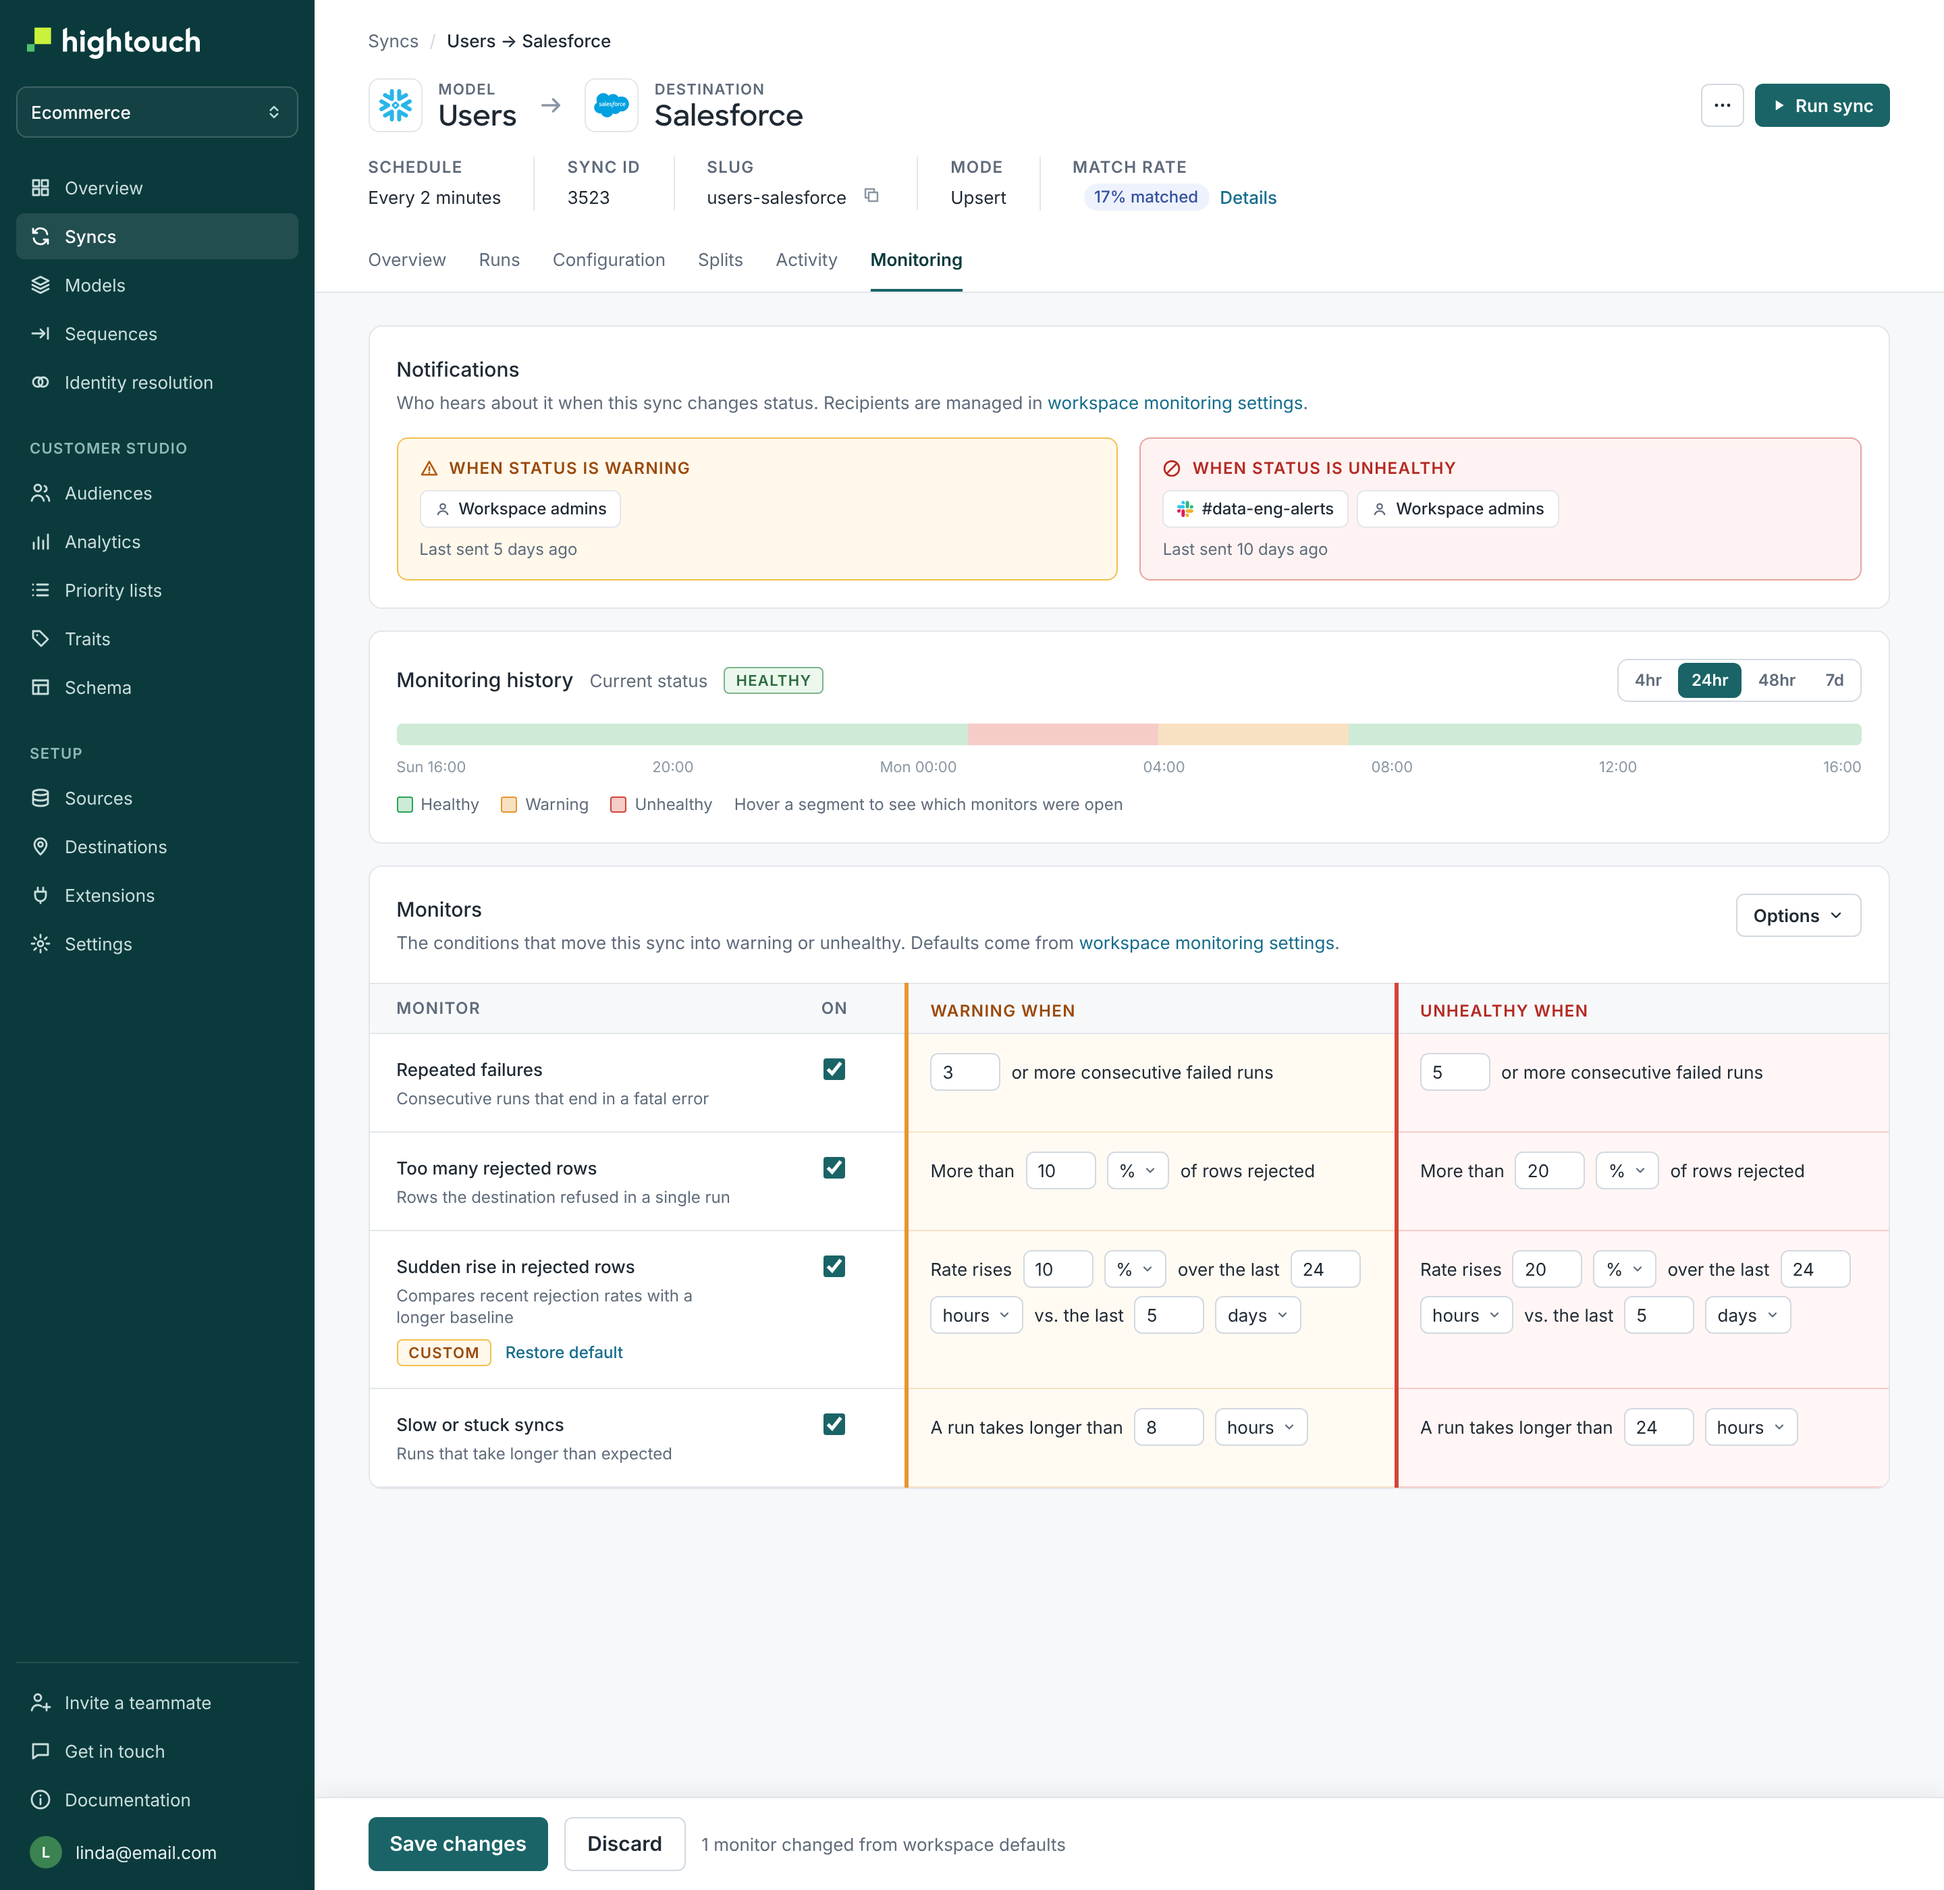
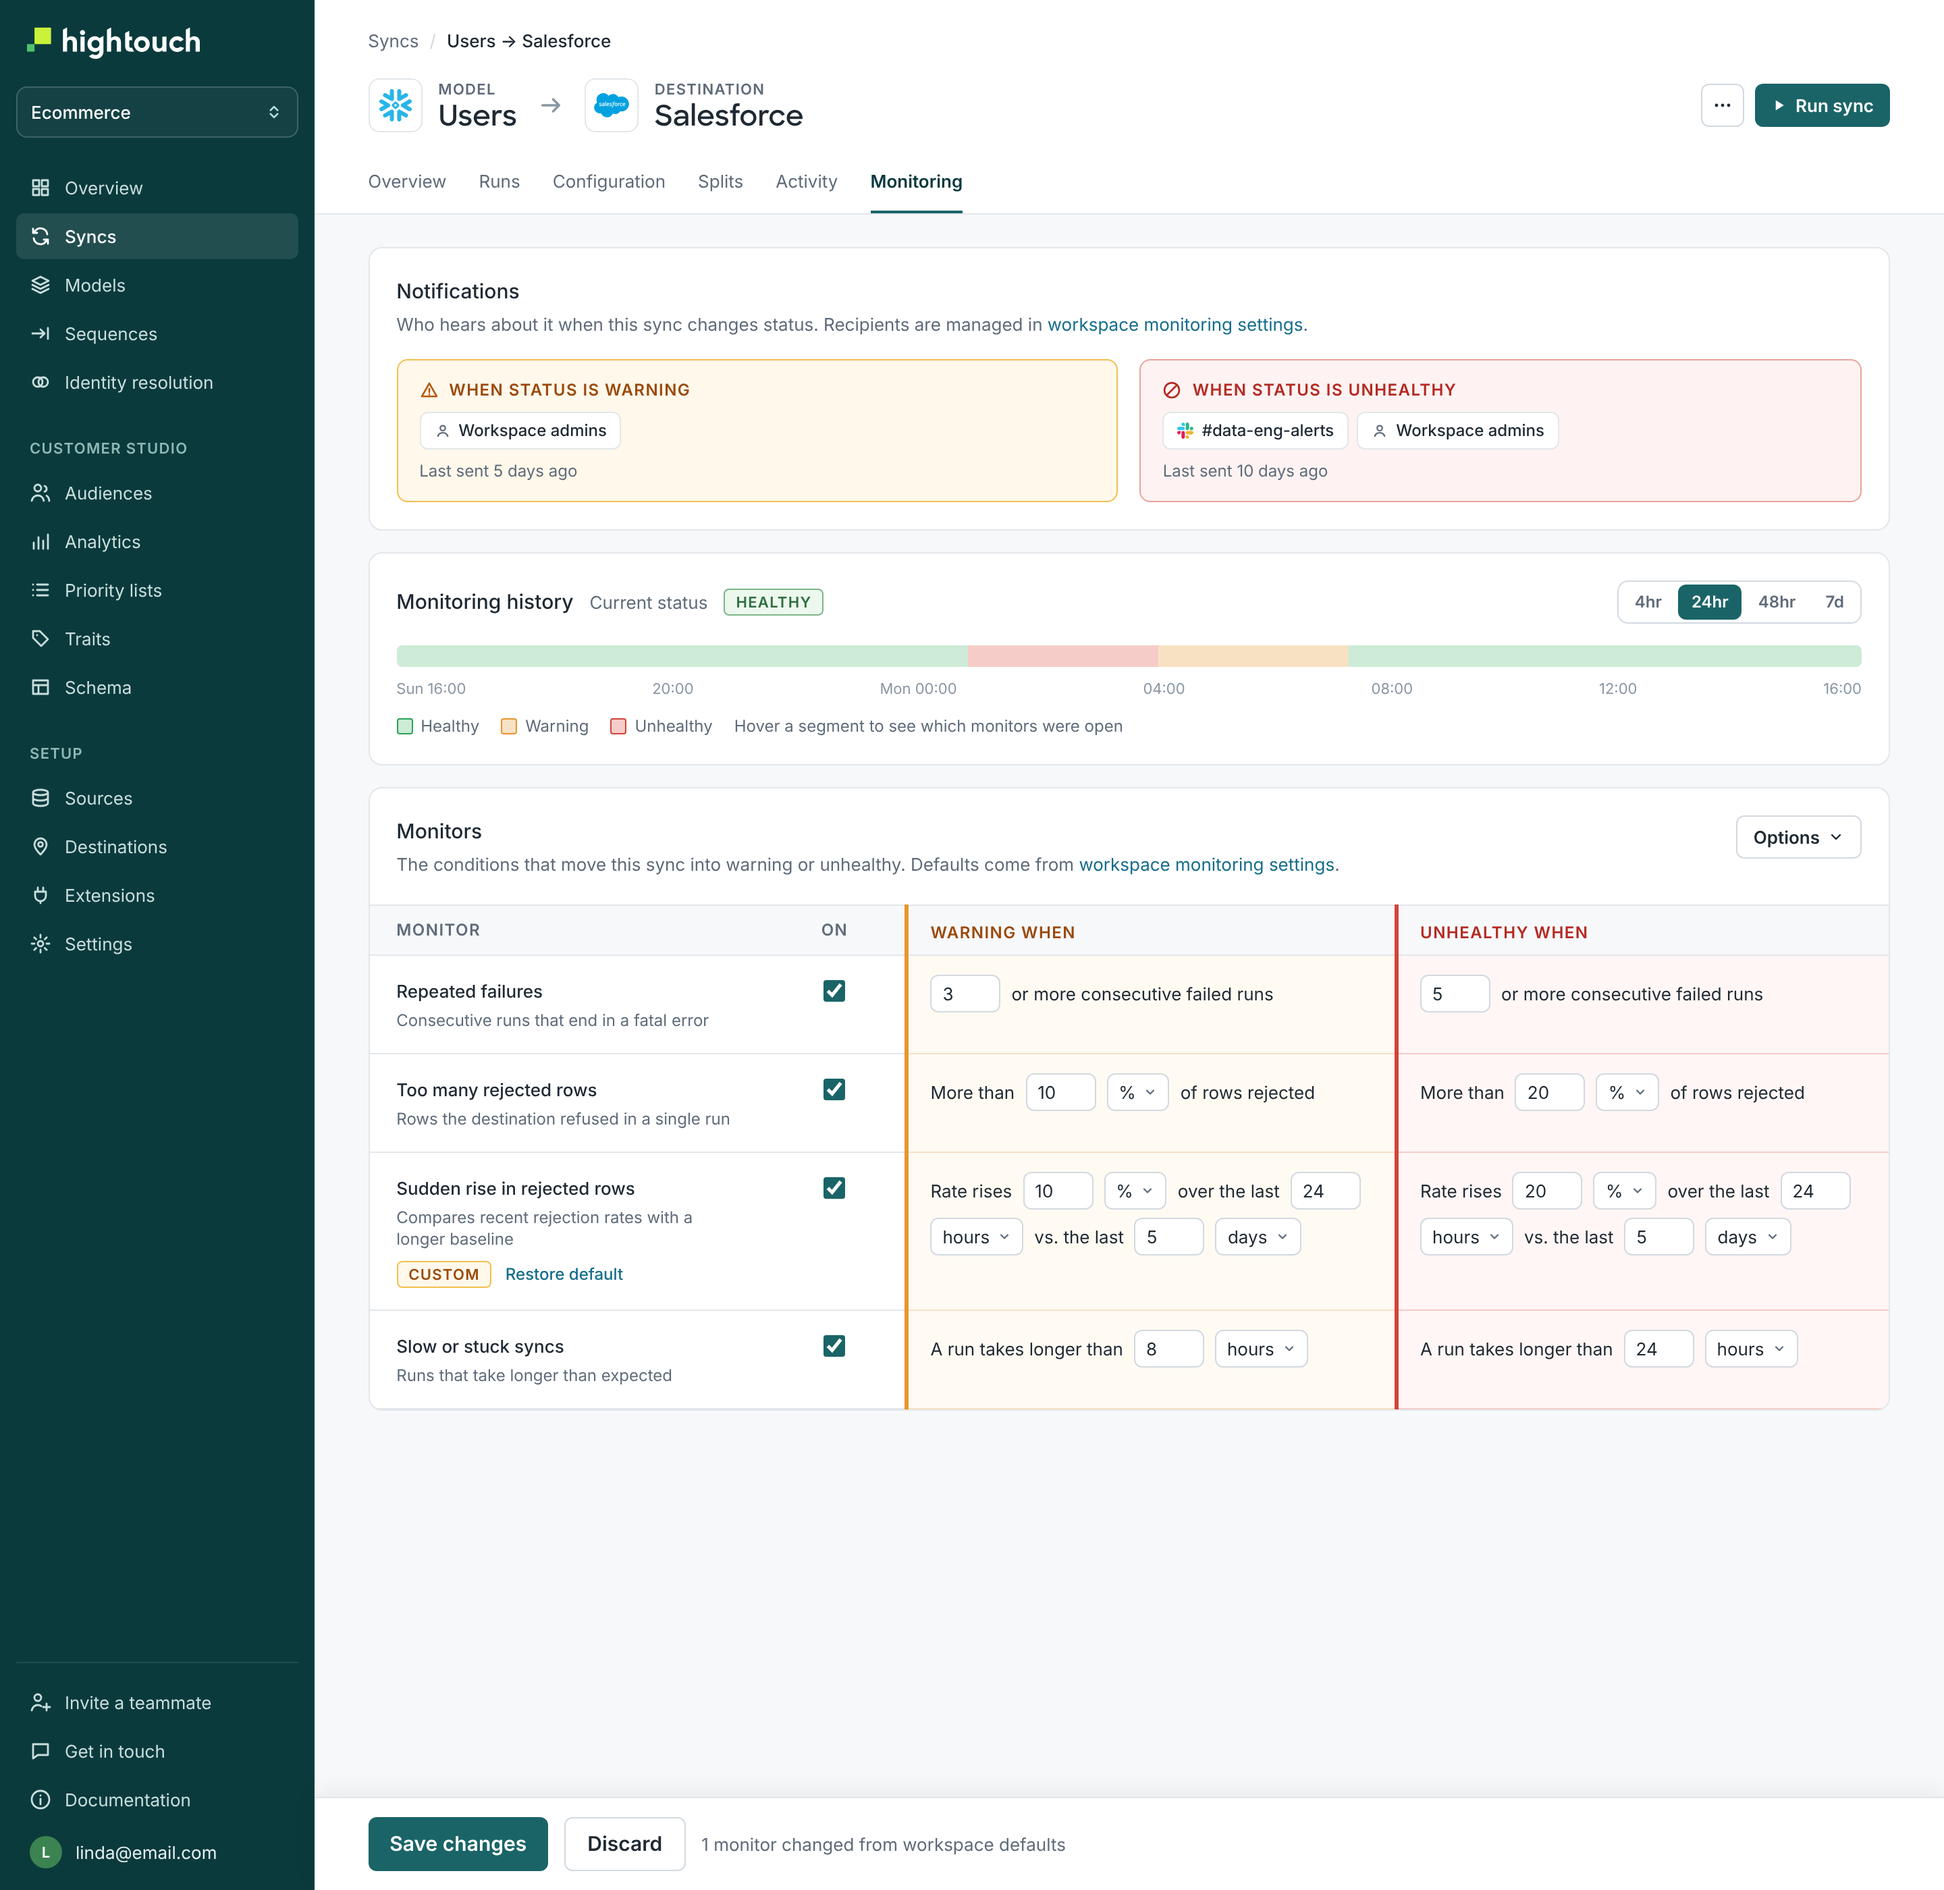
Hightouch case study: drop header metadata from monitoring mock; clarify Journeys reference
Claude-Session: https://claude.ai/code/session_01RvA9kk3sBBZSqtA6sFKroH

diff --git a/hightouch.html b/hightouch.html
@@ -342,7 +342,7 @@
         <span style="font:400 11px/1.5 'Space Mono', monospace; letter-spacing:0.09em; text-transform:uppercase; color:#6b6f6c; padding-top:5px;">Built on top</span>
         <div style="display:flex; flex-direction:column; gap:20px;">
           <p style="margin:0; font:400 17px/1.6 Archivo, sans-serif; color:#333836; max-width:34em; text-wrap:pretty;">Once the design debt in the core experience was under control, I moved on to enterprise features first, like RBAC and deployments, and then to marketer-facing features like Journeys and the Audience builder.</p>
-          <p style="margin:0; font:400 17px/1.6 Archivo, sans-serif; color:#4a4e4c; max-width:34em; text-wrap:pretty;">Journeys was the clearest test of whether the foundation held up. A canvas of triggers, destinations and delays is a very different interface from a sync list, but it's built entirely from the standardized set: the same tables, drawers, status colors and empty states. A marketer reading a live journey and a data engineer reading a failed sync are reading the same visual language.</p>
+          <p style="margin:0; font:400 17px/1.6 Archivo, sans-serif; color:#4a4e4c; max-width:34em; text-wrap:pretty;">Journeys was the clearest test of whether the foundation held up. A canvas of triggers, destinations and delays is a very different interface from a sync list, but it's built entirely from the components we standardized for the core product, which I cover further down: the same tables, drawers, status colors and empty states. A marketer reading a live journey and a data engineer reading a failed sync are reading the same visual language.</p>
           <div onClick="{{ openHtJourneys }}" style="aspect-ratio:2880/1964; border:1px solid #d8d8d4; background:#fff; overflow:hidden; cursor:zoom-in;">
             <img src="images/ht-journeys.png" alt="Journey overview: canvas, performance panel" style="width:100%; height:100%; object-fit:contain; display:block;" />
           </div>
